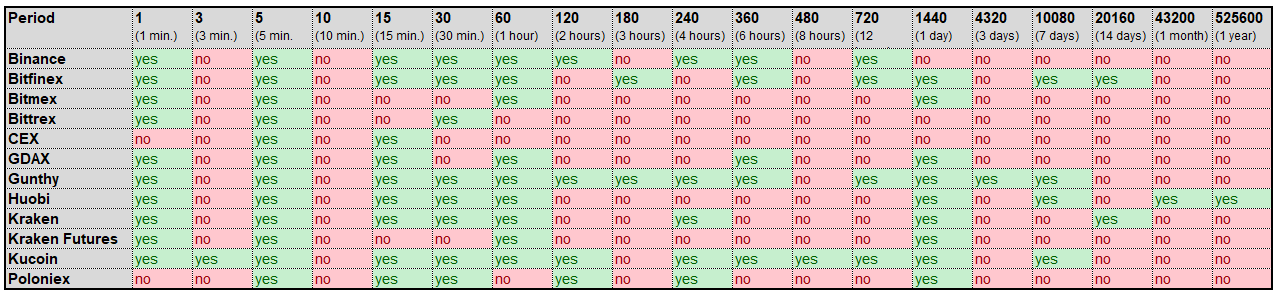
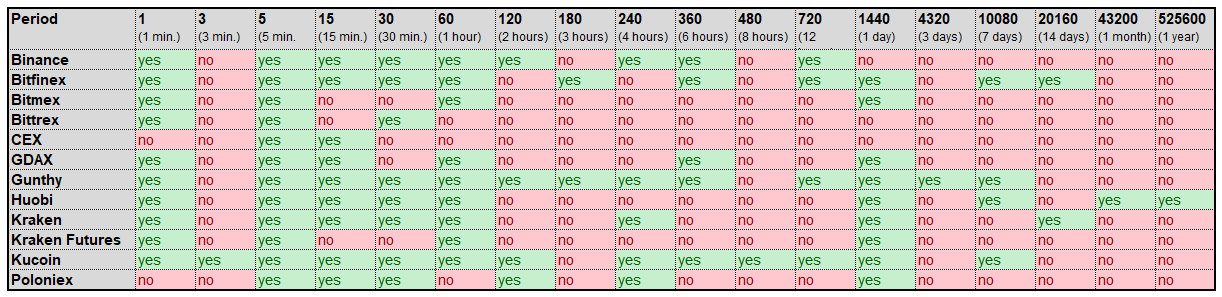
GitBook: [v20] 2 pages and 5 assets modified

diff --git a/how-to-work-with-gunbot/extras/backtesting-add-on.md b/how-to-work-with-gunbot/extras/backtesting-add-on.md
@@ -70,17 +70,17 @@ Enter your Exchange's TRADING\_FEES in the \[Properties\] Tab and then the \[Inp
 
 Drag this window to where you can also see the Strategy Tester pane stats.
 
-![](../../.gitbook/assets/image%20%2858%29.png)
+![](../../.gitbook/assets/image%20%2859%29.png)
 
 Now you are ready to begin adjusting settings in the \[Inputs\] window while watching Net Profit \(red is loss\) to see how this affects your returns. Once you have settings that you are satisfied with, record them to be entered into the real Gunbot when you are ready to begin trading that pair.
 
 To see the "console" readings open the Data Window and hover mouse over a candle, this can be useful for troubleshooting and will also allow you to see the color coding of the plots \(inactive are blue\).
 
-![](../../.gitbook/assets/image%20%2859%29.png)
+![](../../.gitbook/assets/image%20%2860%29.png)
 
 The "Gunbot Tuners Companion" script is used for visually tuning the indicators which cannot be shown on the main chart window. It has it's own Gear icon where you will change it's settings. Once you have visually satisfactory settings, enter those same settings into the "Gunbot Deluxe Tuners BE" script settings to see how they perform.
 
-![](https://raw.githubusercontent.com/boekenbox/gitbook-images/master/bt-10.png)
+![](../../.gitbook/assets/image%20%2856%29.png)
 
 There are a few non-Gunbot variables that are also present in the scripts:
 

diff --git a/how-to-work-with-gunbot/basic-workings/period.md b/how-to-work-with-gunbot/basic-workings/period.md
@@ -10,7 +10,7 @@ Gunbot supports different values for `PERIOD` for each exchange.
 
 Currently the following periods are supported:
 
-![](../../.gitbook/assets/image%20%2856%29.png)
+![](../../.gitbook/assets/image%20%2857%29.png)
 
 ## Choosing the right period
 
